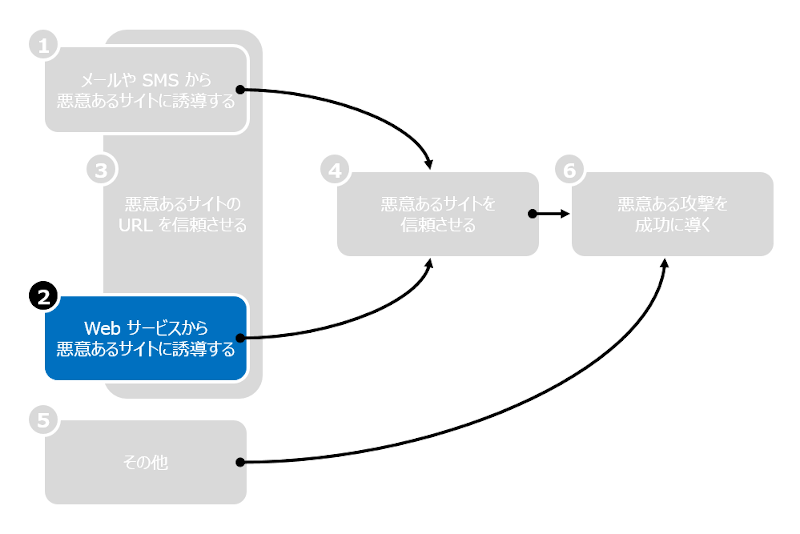
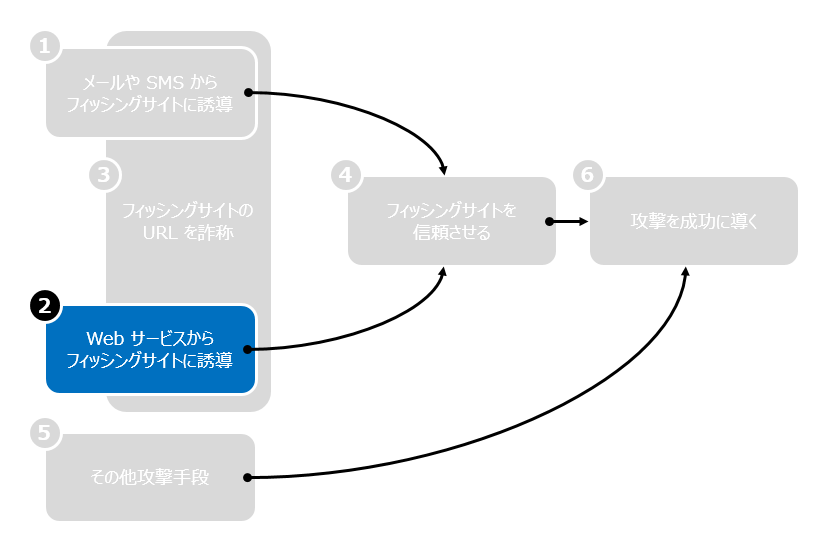
updated

diff --git a/phishing/readme.md b/phishing/readme.md
@@ -1,53 +1,78 @@
 # ま、また釣りかよ !!
 
-こんにちは、広告エンジニアの中山です。
+こんにちは、広告エンジニア & 安全確保支援士の中山です。
 
 広告経由のフィッシング詐欺をはじめ、フィッシング関連ニュースが後を絶ちませんが、今回は騙す側の立場に立って
 
 <img src='https://raw.githubusercontent.com/nakayama-kazuki/202x/main/phishing/img/0.png' />
 
-の 1～6 について考察を深め、フィッシング詐欺への耐性を養いたいと思います。ちなみに、以前にも [同様のタイトルの記事](https://www.techscore.com/blog/2017/12/10/phishing/) を書きましたが、今回はそのアップデート版との位置づけです。
+の 1～6 について考察を深めたいと思います。彼を知り己を知れば百戦殆からず、です。ちなみに、以前にも [同様のタイトルの記事](https://www.techscore.com/blog/2017/12/10/phishing/) を書きましたが、今回はそのアップデート版との位置づけです。
 
-## 1. メールや SMS から悪意あるサイトに誘導する
+## 1. メールや SMS からフィッシングサイトに誘導
 
 <img src='https://raw.githubusercontent.com/nakayama-kazuki/202x/main/phishing/img/1.png' />
 
-まずは攻撃者が直接メールを送信するケースについて考えてみます。攻撃者はターゲットの警戒をくぐりぬけるために
+まずは攻撃者が直接メールを送信するケースについて考えてみます。攻撃者はターゲットを警戒させないために
 
 - 疑われにくい題名を使う<br />（例えば「Re: 経費申請」や「退職のご挨拶」）
 - Non-Delivery Report を偽装する
 
-などの手段を用いることがあります。前者の「退職のご挨拶」については、手続きで会社のアカウントが利用できなくなることが想定できるため、社外のドメインからのメールでも違和感が少ない点が攻撃者にとって好都合です。後者はメールアドレスを間違えた時に MTA から送信されるレポートを偽装し、リンク先で詳細情報を確認させる体裁で悪意あるサイトに誘導します。
+などの手段を用いることがあります。前者の「退職のご挨拶」については、手続きにより会社のアカウントが利用できなくなることが想定できるため、社外のドメインからのメールでも違和感が少ない点が攻撃者にとって好都合です。後者はメールアドレスを間違えた時に MTA から送信されるレポートを偽装し、リンク先で詳細情報を確認させる体裁でフィッシングサイトに誘導します。
 
-次いで、攻撃者が直接メールを送信せずに SaaS の機能を活用して間接的にメールを送信するケースについて考えてみます。正規の SaaS を送信元とすることで、攻撃の隠れ蓑とすることができます。例えば Google ドキュメントのメンションから悪意あるサイトの URL を含んだメールを送信することが可能でした。この問題については Google から [対策が示されました](https://workspaceupdates.googleblog.com/2022/03/more-information-in-comment-notifications-gmail.html) が、今後も通知機能を有した SaaS は攻撃の隠れ蓑として利用されるのではないかと思います。
+次いで、攻撃者が直接メールを送信せずに SaaS の機能を活用して間接的にメールを送信するケースについて考えてみます。正規の SaaS を送信元とすることで、攻撃の隠れ蓑とすることができます。例えば Google ドキュメントのメンションからフィッシングサイトの URL を含んだメールを送信することが可能でした。この問題については Google から [対策が示されました](https://workspaceupdates.googleblog.com/2022/03/more-information-in-comment-notifications-gmail.html) が、今後も通知機能を有した SaaS は攻撃の隠れ蓑として利用される可能性があります。
 
-最後に攻撃者が直接 SMS を送信するケースについて考えてみます。SMS の場合は送信者 ID を詐称して本物のように見せかけターゲットの警戒をくぐりぬけます。
+最後に攻撃者が直接 SMS を送信するケースについて考えてみます。SMS の場合はターゲットを警戒させないために送信者 ID を詐称する可能性があることを理解しておきましょう。
 
-- [フィッシング対策協議会からの案内](https://www.antiphishing.jp/news/alert/docomo_20190621.html)
-- [ソフトバンクからの案内](https://www.softbank.jp/mobile/info/personal/news/support/20200304a/)
+- [フィッシング対策協議会からの注意喚起](https://www.antiphishing.jp/news/alert/docomo_20190621.html)
+- [ソフトバンクからの注意喚起](https://www.softbank.jp/mobile/info/personal/news/support/20200304a/)
 
-## 2. Web サービスから悪意あるサイトに誘導する
+## 2. Web サービスからフィッシングサイトに誘導
 
 <img src='https://raw.githubusercontent.com/nakayama-kazuki/202x/main/phishing/img/2.png' />
 
-掲示板など UGC コンテンツからの誘導や、コミュニケーション機能をもった Web サービスからの誘導が考えられます。前者は「お宝画像はこちら」などの投稿が典型的です。後者は最近ヤフオクから [質問機能を使ったフィッシングサイト誘導](https://auctions.yahoo.co.jp/topic/notice/other/post_3333/) についての注意喚起がありました。
+Web サービスからの誘導によく使われる手段として
 
-## 3. 悪意あるサイトの URL を信頼させる
+- 掲示板など UGC コンテンツからの誘導
+- コミュニケーション機能をもった Web サービスからの誘導
+
+などがあります。前者は「お宝画像はこちら」などの投稿が典型例です。リンク先で待ち受けているのはお宝画像ではなくフィッシングサイトかもしれません。後者については最近ヤフオクから [質問機能を使ったフィッシングサイト誘導](https://auctions.yahoo.co.jp/topic/notice/other/post_3333/) についての注意喚起がありました。
+
+## 3. フィッシングサイトの URL を詐称
 
 <img src='https://raw.githubusercontent.com/nakayama-kazuki/202x/main/phishing/img/3.png' />
 
-HTML で Google Drive を指す（★）
-オープンリダイレクトで URL を（★）
+URL を詐称によく使われる手段として
+
+- プロクシサービスに便乗
+- オープンリダイレクト（脆弱性）に便乗
+- テキストと実際のリンク先の異なる A 要素の活用
+
+などがあります。例えば
+
+```
+https://translate.google.com/translate?u=xn--lhr645fjve.jp
+```
+
+は URL としては Google サービスですが、表示されるのは「総務省.jp」です。punycode を使って IDN をカムフラージュしているため、最初の URL からコンテンツを想像することは困難です。上記「総務省.jp」はフィッシングサイトではありませんが、攻撃者はターゲットを警戒させないためにこのような仕組みを使って URL をミスリードさせます。
+
+また、こちらは昔からよく使われる URL の詐称です。ターゲットが少々警戒心を抱いたとしても Google ドキュメントならまあいいか、と考えてしまうところが攻撃者の狙いです。そしてターゲットが evil-phishing-site.com に誘導されてしまいます。
+
+```
+<a href='https://evil-phishing-site.com/'>
+    https://docs.google.com/document/d/FILE_ID/preview
+</a>
+```
 
 ## 4. 悪意あるサイトを信頼させる
 
 <img src='https://raw.githubusercontent.com/nakayama-kazuki/202x/main/phishing/img/4.png' />
 
+ここでは攻撃者も手の込んだ仕掛けを用いますのでデモも交えて解説します。
 オートフィルトリック（★）
 中山式デコイ作戦（★）
 
 
-## 5. その他
+## 5. その他攻撃手段
 
 <img src='https://raw.githubusercontent.com/nakayama-kazuki/202x/main/phishing/img/5.png' />
 
